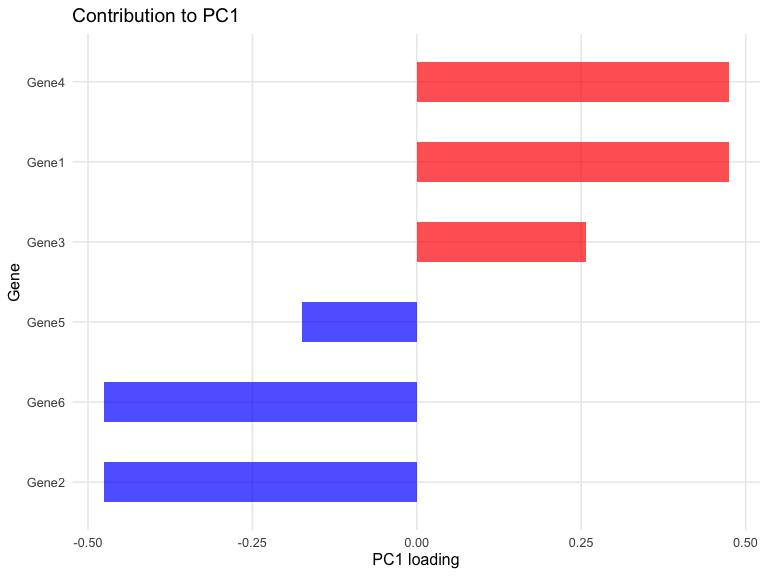
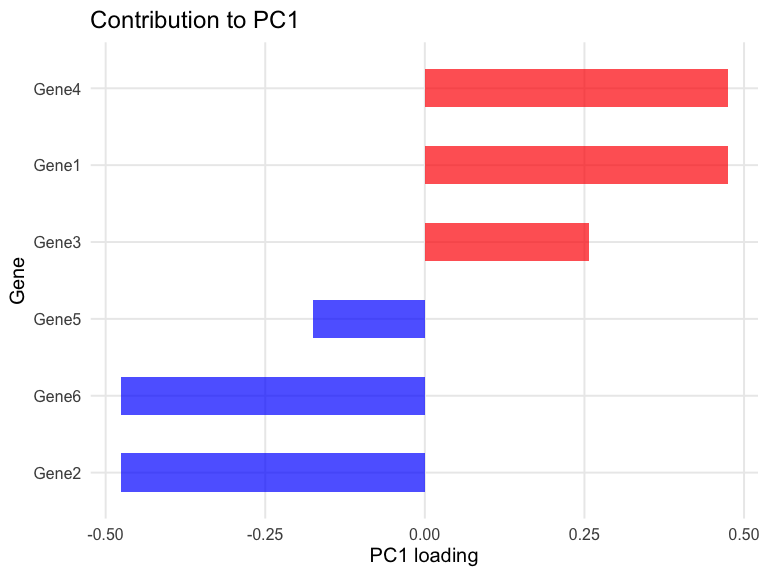
code to non code chunk

diff --git a/docs/UnderstandingPCA.md b/docs/UnderstandingPCA.md
@@ -1,3 +1,11 @@
+``` r
+knitr::opts_chunk$set(echo = TRUE, fig.width = 8, fig.height = 6, warning = FALSE, message = FALSE)
+library(ggplot2)
+library(pheatmap)
+library(reshape2)
+set.seed(123)
+```
+
 # Principal Component Analysis
 
 ## Why PCA?
@@ -56,13 +64,6 @@ rownames(gene_expression) <- paste0("Gene", 1:6)
 colnames(gene_expression) <- c("H1", "H2", "H3", "H4", "C1", "C2", "C3", "C4")
 ```
 
-Gene expression data (rows=genes, columns=samples):
-
-2.1, 7.8, 5.1, 3, 4.5, 6.2, 2.3, 8.1, 5.3, 3.2, 4.6, 6, 2, 7.9, 5.2,
-3.1, 4.4, 6.3, 2.2, 8, 5, 2.9, 4.5, 6.1, 8.1, 3.2, 5.4, 6.8, 4.3, 2.1,
-8.5, 3, 5.2, 7, 4.4, 2.3, 8, 3.1, 5.3, 6.9, 4.5, 2, 8.3, 3.3, 5.1, 7.1,
-4.6, 2.2
-
 ### Visualize raw data
 
 ![](UnderstandingPCA_files/figure-markdown_github/visualize_raw-1.png)
@@ -114,14 +115,11 @@ Performing PCA using `prcomp()` in R requires **samples as rows** and
 ``` r
 # Transpose the data so samples are rows
 pca_data <- t(gene_expression)
-print("Data transposed for PCA (samples as rows):")
+# Run PCA with centering and scaling
+pca_result <- prcomp(pca_data, center = TRUE, scale. = TRUE)
 ```
 
-    ## [1] "Data transposed for PCA (samples as rows):"
-
-``` r
-print(pca_data)
-```
+Data transposed for PCA (samples as rows):
 
     ##    Gene1 Gene2 Gene3 Gene4 Gene5 Gene6
     ## H1   2.1   7.8   5.1   3.0   4.5   6.2
@@ -133,36 +131,13 @@ print(pca_data)
     ## C3   8.0   3.1   5.3   6.9   4.5   2.0
     ## C4   8.3   3.3   5.1   7.1   4.6   2.2
 
-``` r
-# Run PCA with centering and scaling
-pca_result <- prcomp(pca_data, center = TRUE, scale. = TRUE)
-
-# What does prcomp return?
-print("\nComponents of PCA result:")
-```
-
-    ## [1] "\nComponents of PCA result:"
-
-``` r
-print(names(pca_result))
-```
-
-    ## [1] "sdev"     "rotation" "center"   "scale"    "x"
+The PCA result has the following components: sdev, rotation, center,
+scale, x
 
 ### Standard deviations and variance explained
 
-``` r
-# Standard deviations of each PC
-print("Standard deviations of each PC:")
-```
-
-    ## [1] "Standard deviations of each PC:"
-
-``` r
-print(pca_result$sdev)
-```
-
-    ## [1] 2.07406699 1.06419691 0.74786562 0.06227544 0.04259705 0.02711711
+Standard deviations of each PC: 2.074067, 1.0641969, 0.7478656,
[phone redacted], 0.042597, 0.0271171.
 
 ``` r
 # Variance explained by each PC
@@ -176,14 +151,9 @@ variance_df <- data.frame(
   Variance_explained = round(proportion_variance * 100, 2),
   Cumulative_explained = round(cumulative_variance * 100,2)
 )
-print("\nVariance explained:")
 ```
 
-    ## [1] "\nVariance explained:"
-
-``` r
-print(variance_df, 2)
-```
+Variance explained:
 
     ##    PC PC_variance Variance_explained Cumulative_explained
     ## 1 PC1      4.3018              71.70                71.70
@@ -195,8 +165,8 @@ print(variance_df, 2)
 
 `Total variance` = all the differences between samples across all
 genes.  
-- `PC1` captures the largest chunk of these differences - `PC2` captures
-the next largest chunk (independent of PC1)
+- `PC1` captures the largest chunk of these differences  
+- `PC2` captures the next largest chunk (independent of PC1)
 
 PC1 explains 71.7% of all variance! That means most of the differences
 between samples can be seen in just one dimension.
@@ -211,7 +181,7 @@ ggplot(variance_df, aes(x = PC, y = Variance_explained)) +
   labs(title = "Scree Plot: Variance Explained by Each PC",
        y = "Proportion of variance (%)",
        x = "Principal component") +
-  theme_minimal(12) +
+  theme_minimal(15) +
   theme(axis.text.x = element_text(angle = 45, hjust = 1))
 ```
 
@@ -224,14 +194,14 @@ ggplot(variance_df, aes(x = PC, y = Variance_explained)) +
 ``` r
 # Get PC scores
 pc_scores <- pca_result$x
-print("PC Scores (coordinates of samples in PC space):")
+
+# Create a data frame for plotting
+pc_df <- as.data.frame(pc_scores)
+pc_df$Sample <- rownames(pc_scores)
+pc_df$Group <- ifelse(grepl("^H", pc_df$Sample), "Healthy", "Cancer")
 ```
 
-    ## [1] "PC Scores (coordinates of samples in PC space):"
-
-``` r
-print(round(pc_scores, 2))
-```
+PC Scores (coordinates of samples in PC space):
 
     ##      PC1   PC2   PC3   PC4   PC5   PC6
     ## H1 -2.02  0.07 -0.27  0.01  0.05 -0.03
@@ -243,13 +213,6 @@ print(round(pc_scores, 2))
     ## C3  1.93  0.29  0.57  0.08  0.06  0.00
     ## C4  1.37  1.92  0.00 -0.04 -0.01  0.03
 
-``` r
-# Create a data frame for plotting
-pc_df <- as.data.frame(pc_scores)
-pc_df$Sample <- rownames(pc_scores)
-pc_df$Group <- ifelse(grepl("^H", pc_df$Sample), "Healthy", "Cancer")
-```
-
 The PCA plot is generated using the PC sample scores. Each sample gets a
 score that’s a weighted average of the gene expression. The 2D plot of
 PC1 (x-axis) and PC2 (y-axis) is the standard output of PCA.
@@ -257,12 +220,11 @@ PC1 (x-axis) and PC2 (y-axis) is the standard output of PCA.
 ``` r
 ggplot(pc_df, aes(x = PC1, y = PC2, color = Group, label = Sample)) +
   geom_point(size = 5) +
-  geom_text(vjust = -1, size = 4) +
+  geom_text(vjust = 1, size = 4) +
   labs(title = "PCA Plot: Healthy vs Cancer samples",
-       x = paste0("PC1 (", round(proportion_variance[1]*100, 1), "% variance)"),
-       y = paste0("PC2 (", round(proportion_variance[2]*100, 1), "% variance)")) +
-  theme_minimal() +
-  theme(legend.position = "top") +
+       x = paste0("PC1 (", round(proportion_variance[1]*100, 1), "%)"),
+       y = paste0("PC2 (", round(proportion_variance[2]*100, 1), "%)")) +
+  theme_minimal(15) + theme(legend.position = "top") +
   scale_color_manual(values = c("Healthy" = "darkgreen", "Cancer" = "red"))
 ```
 
@@ -306,14 +268,9 @@ computed!
 ``` r
 # Get loadings
 loadings <- pca_result$rotation
-print("Loadings (how genes contribute to PCs):")
 ```
 
-    ## [1] "Loadings (how genes contribute to PCs):"
-
-``` r
-print(round(loadings[, 1:3], 3))
-```
+Loadings (how genes contribute to PCs):
 
     ##          PC1    PC2    PC3
     ## Gene1  0.474  0.159 -0.064
@@ -336,16 +293,12 @@ loading_df$Gene <- factor(loading_df$Gene, levels = loading_df$Gene)
 ggplot(loading_df, aes(x = Gene, y = PC1, fill = PC1 > 0)) +
   geom_bar(stat = "identity", width = 0.5, alpha = 0.7) +
   labs(title = "Contribution to PC1", y = "PC1 loading", x = "Gene") +
-  theme_minimal(12) + theme(legend.position = "none", panel.grid.minor.x = element_blank()) +
+  theme_minimal(15) + theme(legend.position = "none", panel.grid.minor.x = element_blank()) +
   scale_fill_manual(values = c("TRUE" = "red", "FALSE" = "blue")) +
   coord_flip()
 ```
 
 ![](UnderstandingPCA_files/figure-markdown_github/loading_plot-1.png)
-
-``` r
-rm(loading_df)
-```
 
 - Positive loadings on PC1: Genes high in cancer (Gene1, Gene4)
 - Negative loadings on PC1: Genes high in healthy (Gene2, Gene6)
@@ -403,17 +356,10 @@ print(loadings)
 h1_scaled <- verify_df[1, ]  # H1 scaled gene values
 pc1_loadings <- loadings[, 1]
 h1_pc1 <- sum(h1_scaled * pc1_loadings)
-
-print(paste("PC1 score for H1 (manual):", round(h1_pc1, 4)))
 ```
 
-    ## [1] "PC1 score for H1 (manual): -2.0162"
-
-``` r
-print(paste("prcomp() result:", round(pc_scores[1, 1], 4)))
-```
-
-    ## [1] "prcomp() result: -2.0162"
+PC1 score for H1 (manual): -2.0162  
+`prcomp()` result: -2.0162
 
 ------------------------------------------------------------------------
 
@@ -439,7 +385,3 @@ could be due to tissue contamination or rare variants
 before/after adjustment  
 - with biomarker discovery such as genes with high loadings on
 clinically relevant PCs
-
-``` r
-#sessionInfo()
-```